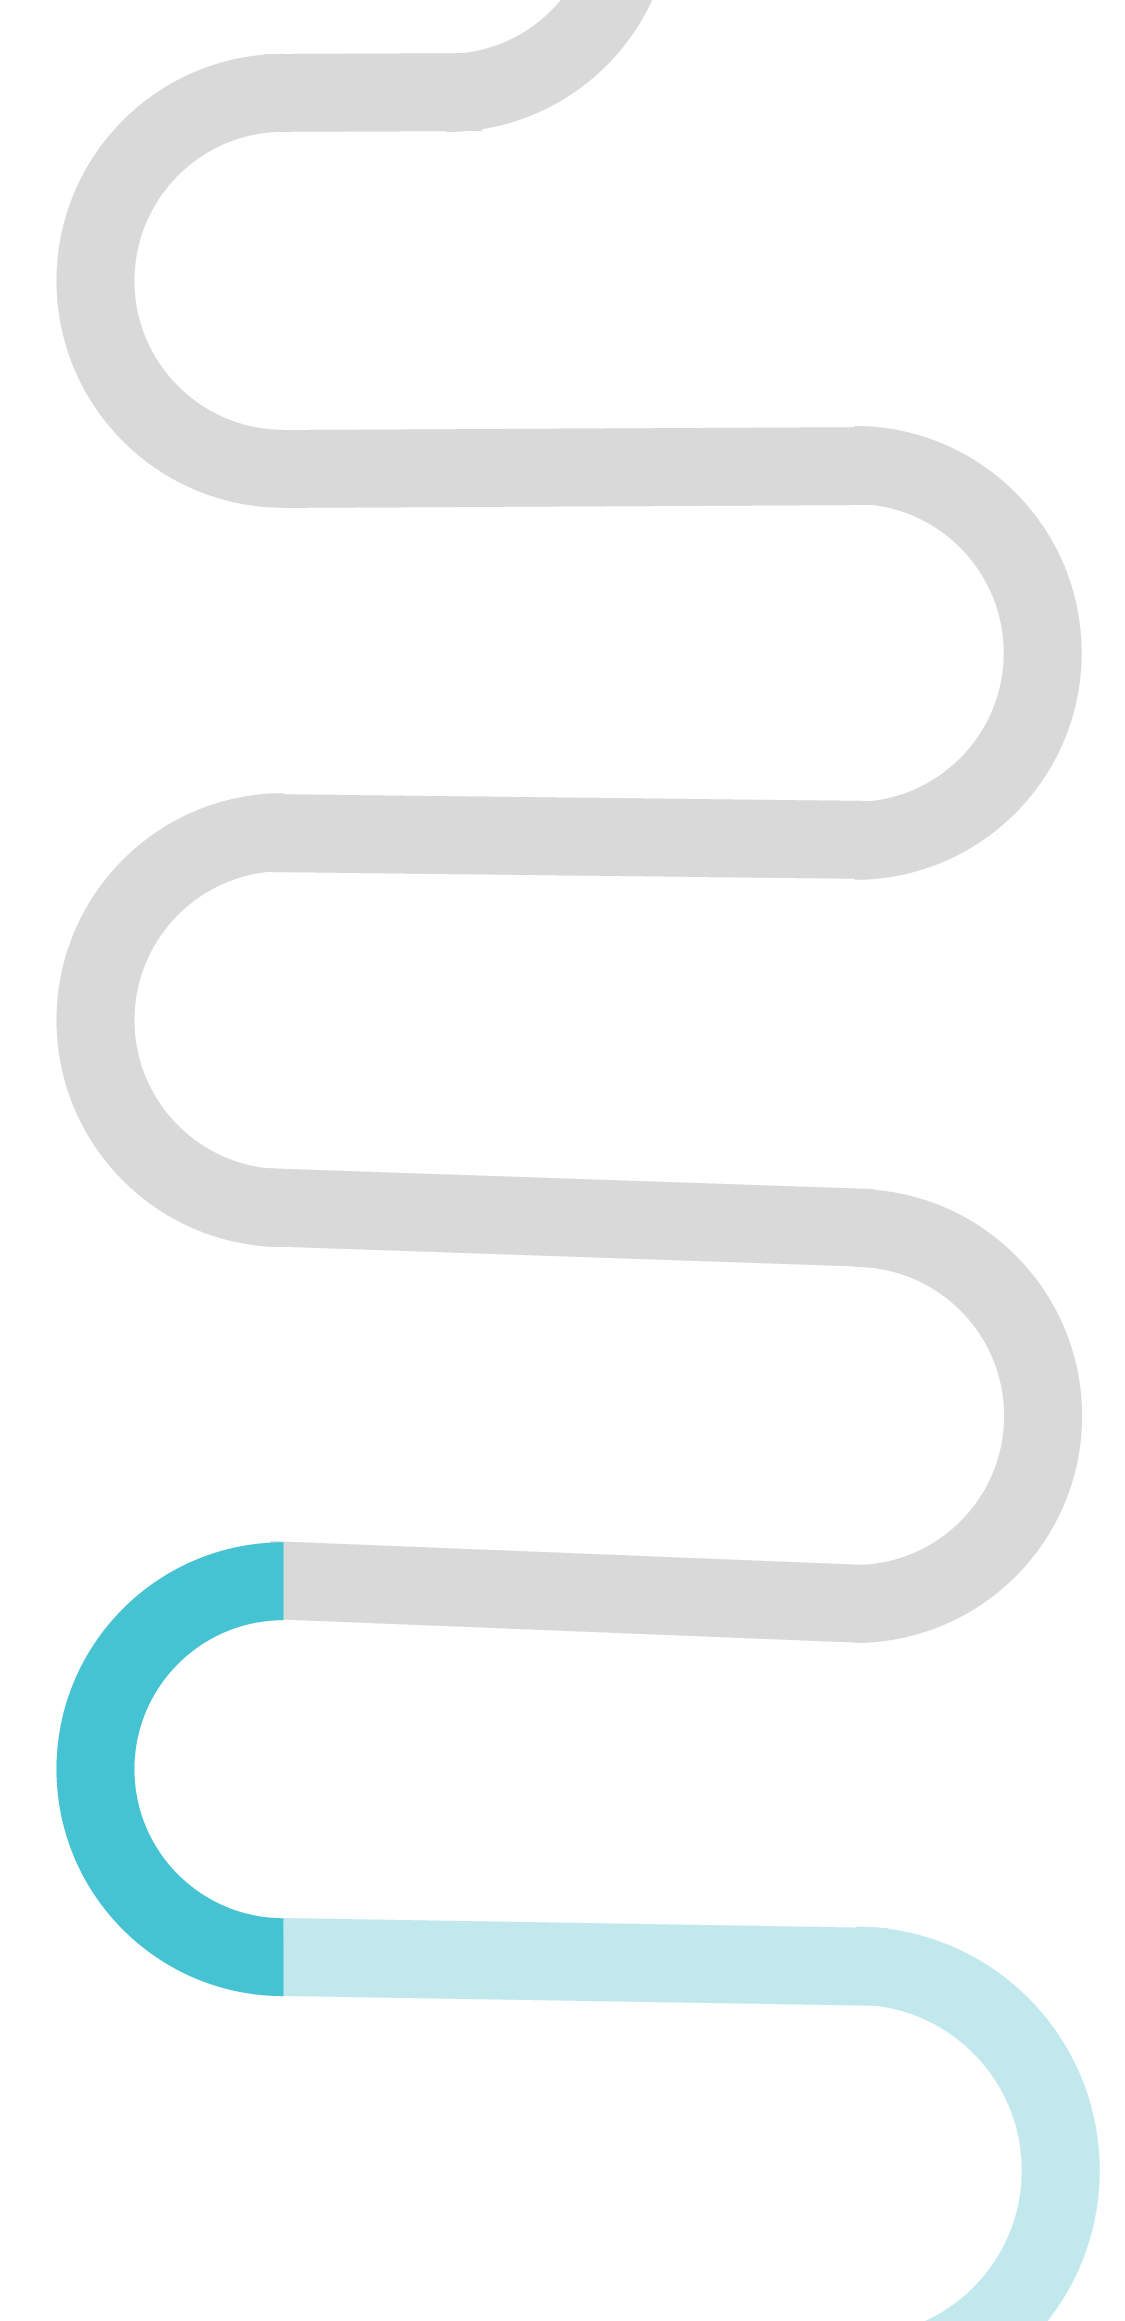
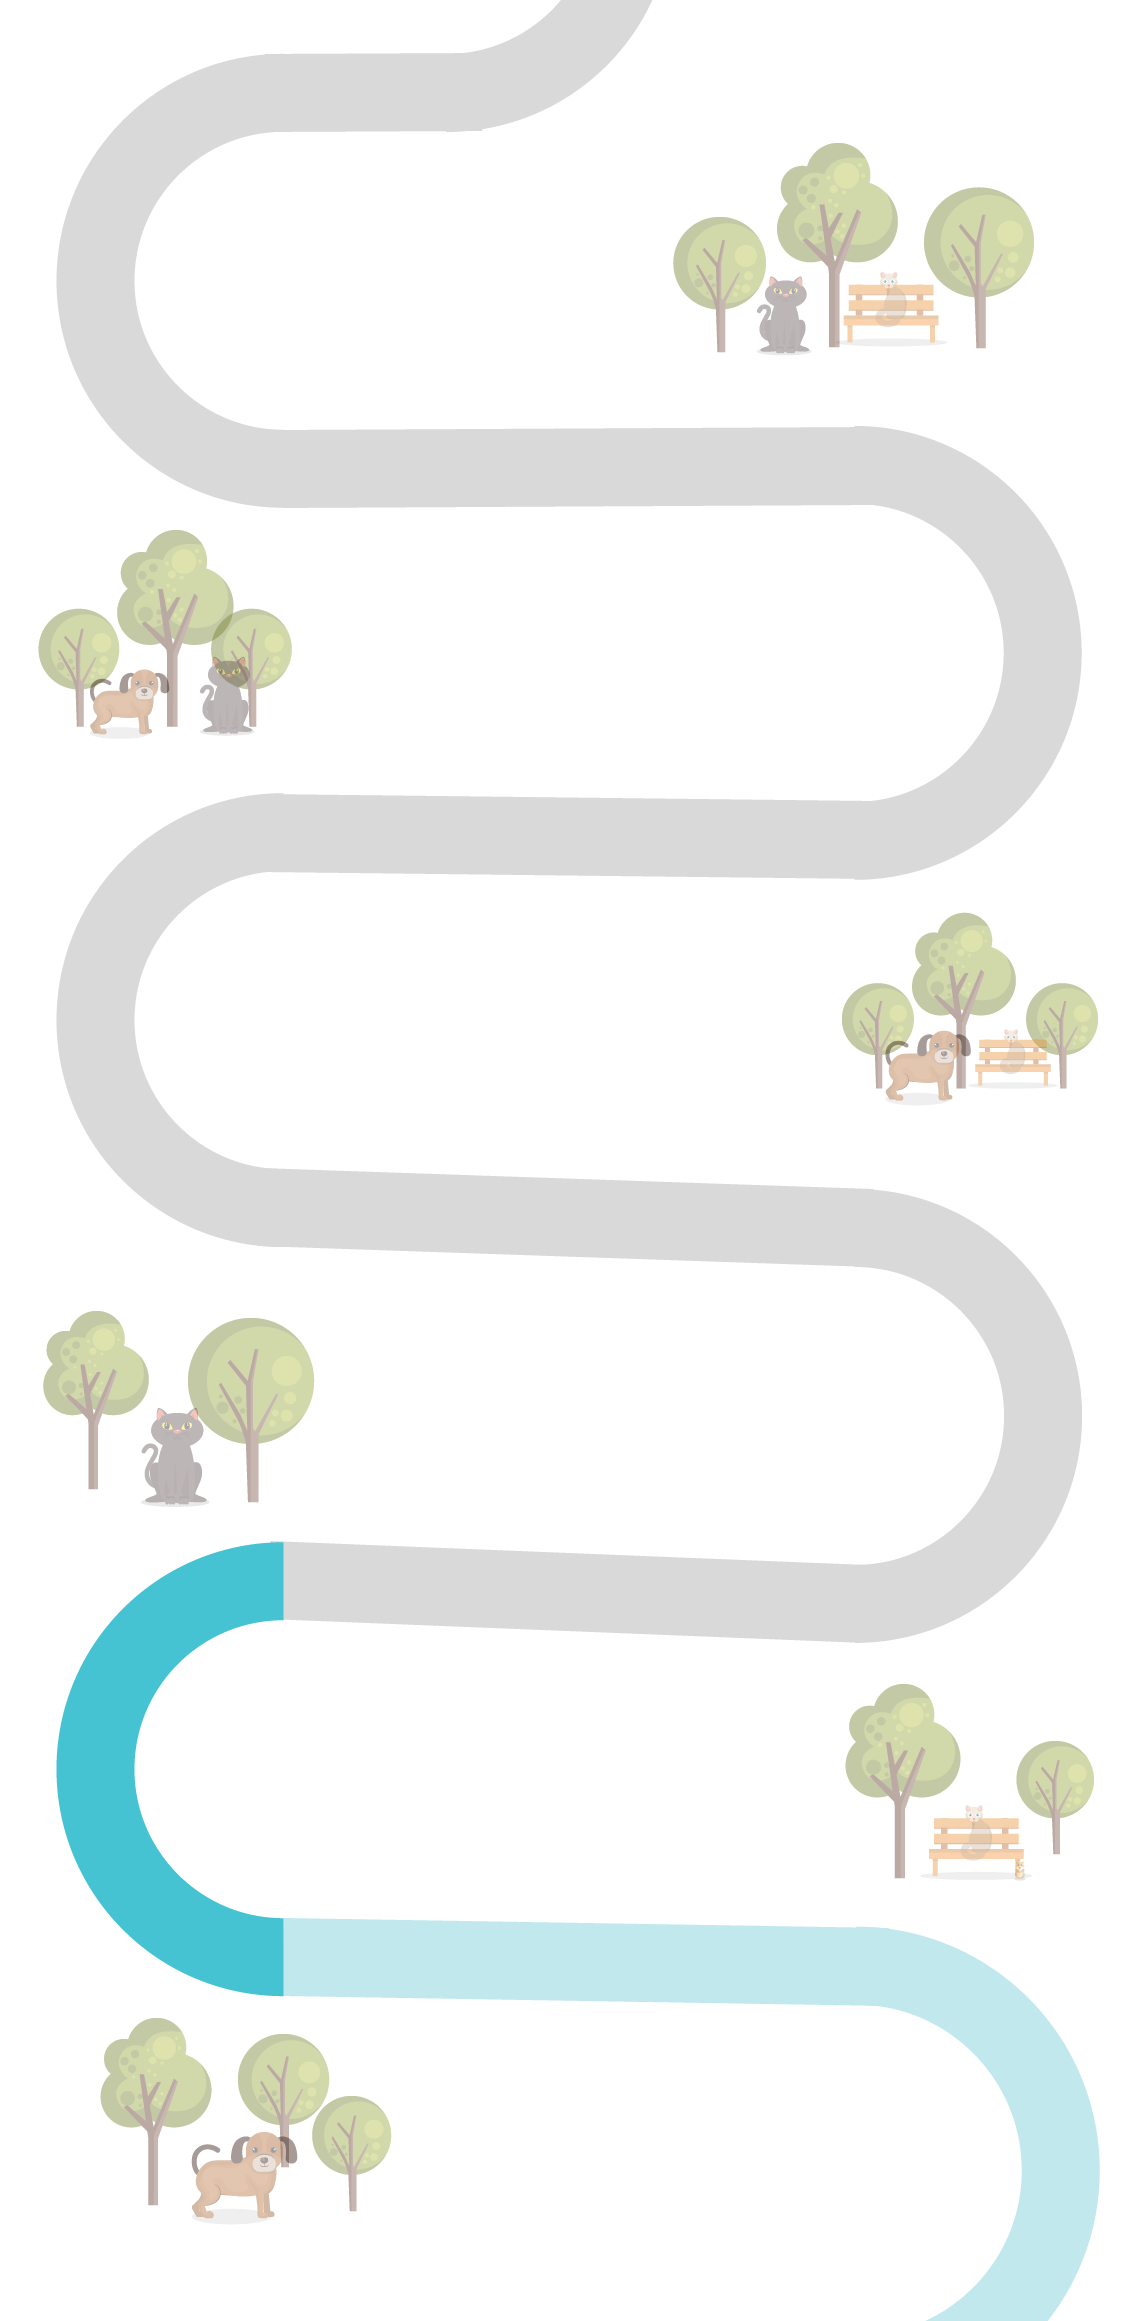
cambios de imagenes

diff --git a/Agapet/src/screens/faq/faq.jsx b/Agapet/src/screens/faq/faq.jsx
@@ -127,7 +127,7 @@ export const Faq = () => {
 
     function preguntas(buscador) {
 
-        if ((buscador == '' && tipo==1 ) || ( tema2=='All' && tipo==0) ) {
+        if ((buscador == '' && tipo == 1) || (tema2 == 'All' && tipo == 0)) {
             return (
                 <FlatList
                     data={Information}
@@ -138,14 +138,14 @@ export const Faq = () => {
                 />
             )
         } else {
-            let fil=[];
-            if(tipo==1){
-                 fil = [...new Set(faq.filter(c => (c.pregunta.toUpperCase()).includes(texto.toUpperCase())))];
+            let fil = [];
+            if (tipo == 1) {
+                fil = [...new Set(faq.filter(c => (c.pregunta.toUpperCase()).includes(texto.toUpperCase())))];
 
-            }else{
-                 fil = [...new Set(faq.filter(c => (c.temaid.toString()).includes(tema2)))];
+            } else {
+                fil = [...new Set(faq.filter(c => (c.temaid.toString()).includes(tema2)))];
             }
-            
+
             return (
                 <FlatList
                     data={fil}
@@ -175,71 +175,75 @@ export const Faq = () => {
                 <TextInput value={texto} onChangeText={handleTextoChange}  ></TextInput>
             </View>*/}
 
-            <View style={style.buscador}>
-                <View style={styles.container}>
-                    <View style={styles.searchContainer}>
-                        <View style={styles.vwSearch}>
-                            <Image
-                                style={styles.icSearch}
-                                source={require('../../../assets/ic_search.png')} />
+            <ImageBackground source={require('../../../assets/huellasfaq.jpg')} style={{alignItems :'center', height:height*0.8, width:width}}>
+                <View style={style.buscador}>
+                    <View style={styles.container}>
+                        <View style={styles.searchContainer}>
+                            <View style={styles.vwSearch}>
+                                <Image
+                                    style={styles.icSearch}
+                                    source={require('../../../assets/ic_search.png')} />
+                            </View>
+
+                            <TextInput
+                                value={texto}
+                                placeholder="Search"
+                                style={styles.textInput}
+                                onChangeText={handleTextoChange}
+                            ></TextInput>
+                            {
+                                /*texto ?
+                                    <TouchableOpacity
+                                        onPress={() => {
+    
+                                            setTexto('');
+                                        }}
+                                        style={styles.vwClear}>
+                                        <Image
+                                            style={styles.icClear}
+                                            source={require('../../../assets/ic_clear.png')} />
+                                    </TouchableOpacity>
+                                    : <View style={styles.vwClear} />*/
+                            }
+
                         </View>
 
-                        <TextInput
-                            value={texto}
-                            placeholder="Search"
-                            style={styles.textInput}
-                            onChangeText={handleTextoChange}
-                        ></TextInput>
-                        {
-                            /*texto ?
-                                <TouchableOpacity
-                                    onPress={() => {
+                    </View >
+                </View>
 
-                                        setTexto('');
-                                    }}
-                                    style={styles.vwClear}>
-                                    <Image
-                                        style={styles.icClear}
-                                        source={require('../../../assets/ic_clear.png')} />
-                                </TouchableOpacity>
-                                : <View style={styles.vwClear} />*/
-                        }
+                <Text style={style.titulo}>Top Questions</Text>
+                <View style={{
+                    flexDirection: "row", marginTop: width * 0.045, marginBottom: width * 0.045
+                }}>
+                    {
+                        Allcategory.map(c => (
+                            <TouchableOpacity
+                                onPress={() => filter(c)} //cuidado con el onpres
+                                key={c}
 
-                    </View>
-
-                </View >
-            </View>
-
-            <Text style={style.titulo}>Top Questions</Text>
-            <View style={{
-                flexDirection: "row", marginTop: width * 0.045, marginBottom: width * 0.045
-            }}>
-                {
-                    Allcategory.map(c => (
-                        <TouchableOpacity
-                            onPress={() => filter(c)} //cuidado con el onpres
-                            key={c}
-                            
-                        >
-                            <Text style={style.tituloSelec} >{c}</Text>
-                        </TouchableOpacity>
-                    ))
-                }
-            </View>
+                            >
+                                <Text style={style.tituloSelec} >{c}</Text>
+                            </TouchableOpacity>
+                        ))
+                    }
+                </View>
 
 
-            <View style={style.backgroundContainer}>
-                <SafeAreaView>
+                <View style={style.backgroundContainer}>
+                    <SafeAreaView>
 
-                    <View >
-                        {
-                        preguntas(texto)
-                        }
+                        <View >
+                            {
+                                preguntas(texto)
+                            }
 
-                    </View>
-                </SafeAreaView>
-            </View>
+                        </View>
+                    </SafeAreaView>
+                </View>
+                </ImageBackground>
+
         </View>
+        
     );
 }
 
@@ -268,9 +272,9 @@ const style = StyleSheet.create({
         marginLeft: '4%',
         backgroundColor: '#B900FF',
         borderRadius: width * 0.02,
-        height:width*0.07,
-        width:width*0.1,
-        textAlign:'center'
+        height: width * 0.07,
+        width: width * 0.1,
+        textAlign: 'center'
     },
     tituloSelec: {
         color: 'black',
@@ -280,9 +284,9 @@ const style = StyleSheet.create({
         marginLeft: '4%',
         backgroundColor: '#FFFAEE',
         borderRadius: width * 0.02,
-        height:width*0.07,
-        width:width*0.1,
-        textAlign:'center'
+        height: width * 0.07,
+        width: width * 0.1,
+        textAlign: 'center'
     },
     fondo: {
         backgroundColor: 'white',

diff --git a/Agapet/src/components/AccordionItem.js b/Agapet/src/components/AccordionItem.js
@@ -57,7 +57,7 @@ const styles = StyleSheet.create({
         width: width,
         padding: '2%',
         borderRadius: 12,
-        backgroundColor: 'white',
+        backgroundColor: '#FFFFFFA6',
         marginBottom: '2%',
         marginLeft: '2%',
         overflow: 'hidden'
